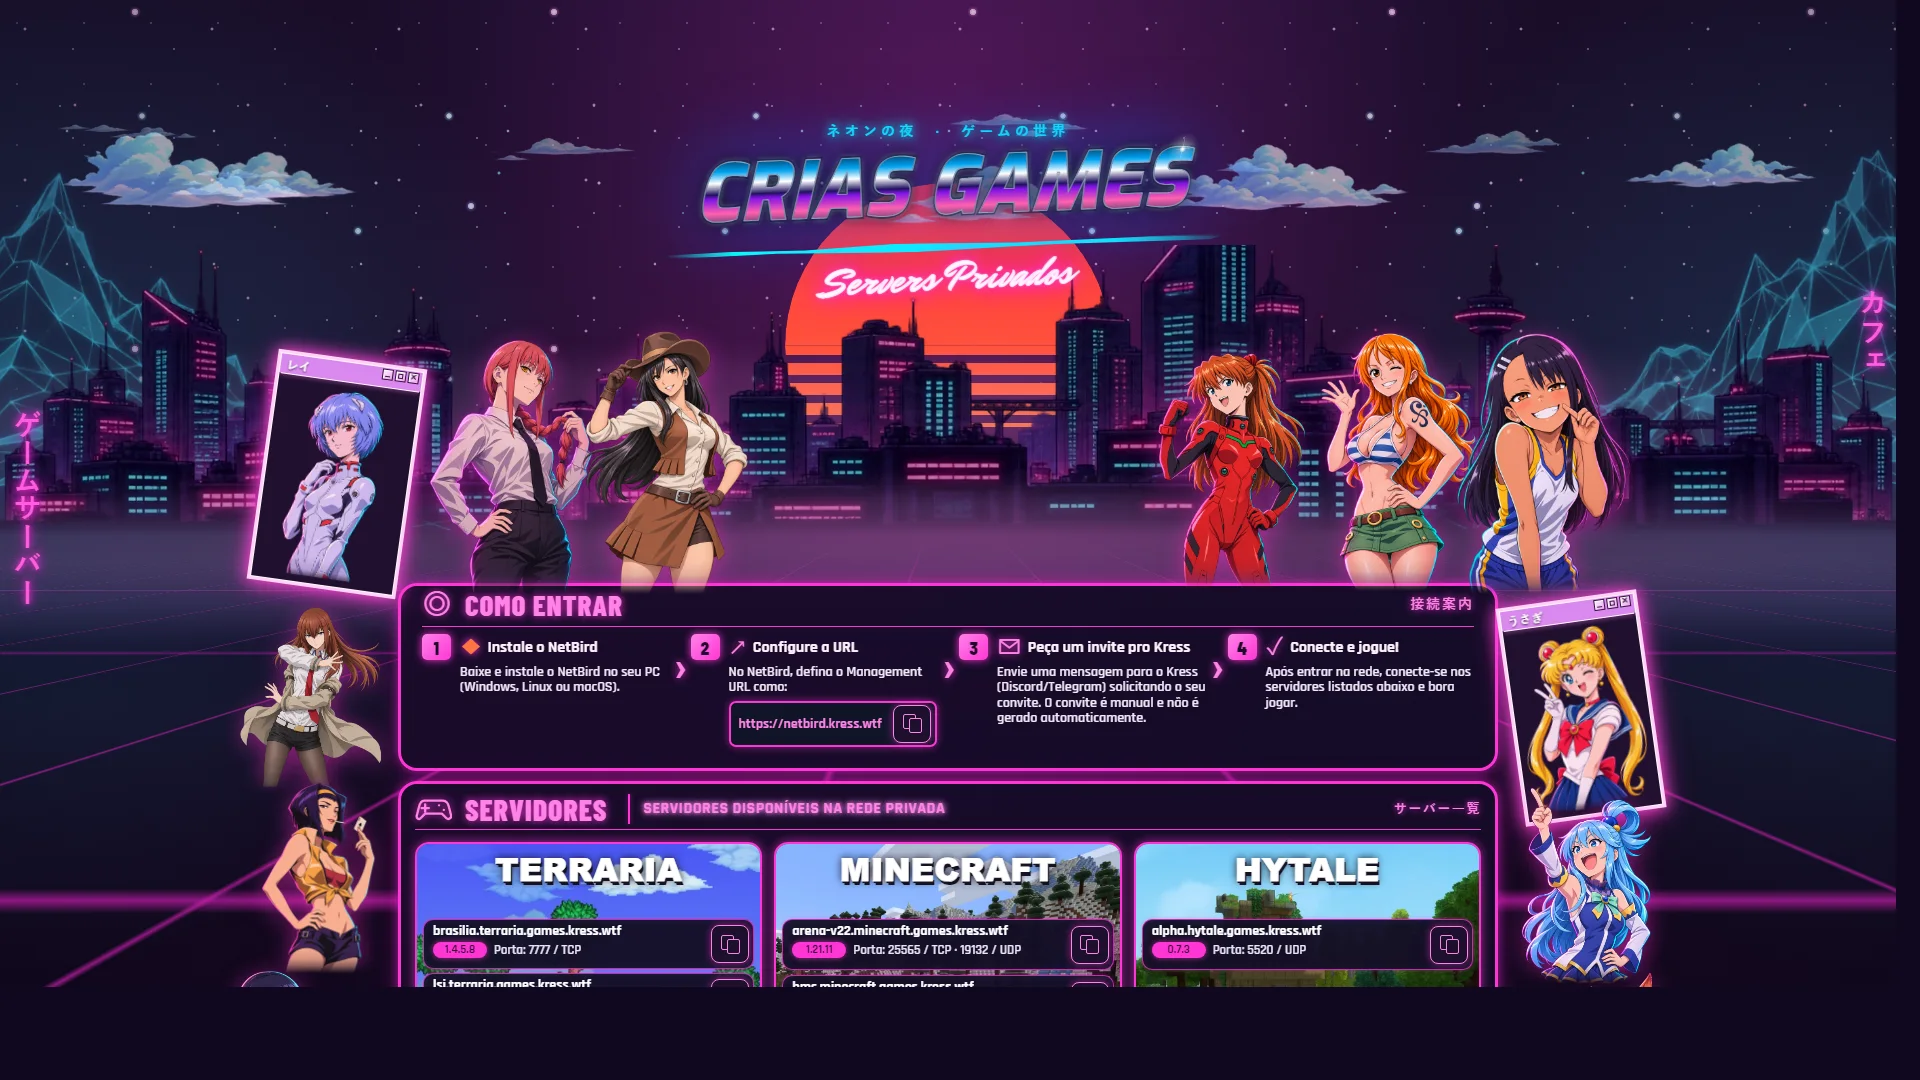
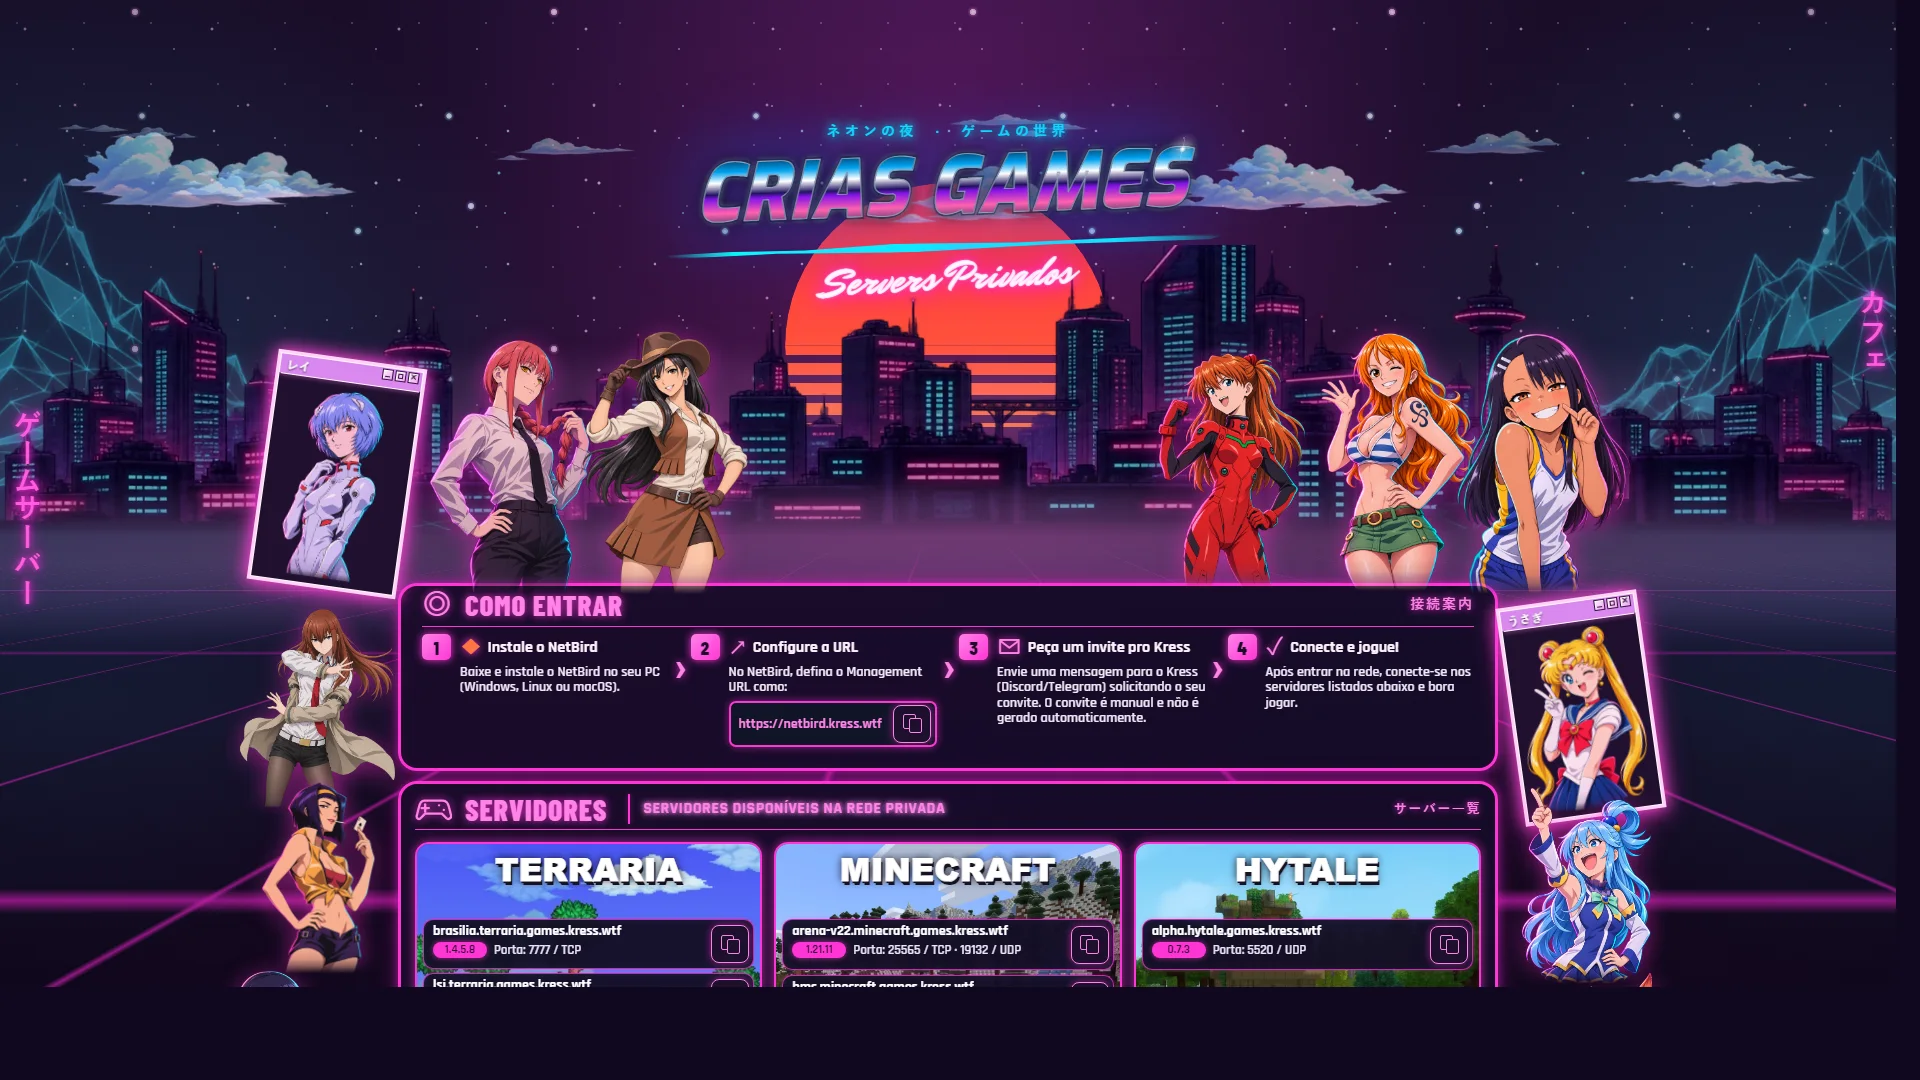
Slightly enlarge Kurisu portrait

Changed region(s): [[0.125, 0.55, 0.2188, 0.7639]]

diff --git a/src/assets/site.css b/src/assets/site.css
@@ -152,7 +152,7 @@ html.portrait-press-active,html.portrait-press-active * { user-select:none!impor
 .character--asuka { right:25%; top:133px; width:clamp(185px,13.75vw,199px); }
 .character--nami { right:13%; top:138px; width:clamp(200px,15vw,217px); }
 .character--nagatoro { right:2.8%; top:133px; width:clamp(205px,15vw,217px); }
-.character--kurisu { left:20px; top:406px; width:clamp(150px,11.625vw,168px); }
+.character--kurisu { left:20px; top:406px; width:clamp(168px,12.5vw,185px); }
 .character--faye { left:2.2%; top:586px; width:clamp(145px,11vw,159px); }
 .character--hinata { left:0; top:766px; width:clamp(150px,11.625vw,168px); }
 .character--rem { left:0; top:946px; width:clamp(145px,11vw,159px); }

diff --git a/docs/review/visual-review.md b/docs/review/visual-review.md
@@ -211,4 +211,4 @@ The [1448px upper-page capture](screenshots/tifa-clouds-1448-2026-11-10.webp) an
 
 ## Kurisu visual-novel portrait — 2026-11-11
 
-Replaced the previous heavily textured cutout with a cleaner transparent portrait that follows the user's new stance reference. It uses tidy linework, smooth matte shading and clear colors while retaining the novel's off-shoulder khaki coat, white shirt, red tie, dark shorts, white-and-gold belt and tights. The figure has natural proportions, an above-knee crop and generous transparent breathing room on the canvas; earlier numbered portraits remain archived. The second blurred fog layer now sits at the mountain base, above the mountain art and behind the skyline; it is positioned higher than the existing foreground fog. Desktop captures: [1448px](screenshots/kurisu-visual-novel-1448-2026-11-11.webp) and [1920px](screenshots/kurisu-visual-novel-1920-2026-11-11.webp).
+Replaced the previous heavily textured cutout with a cleaner transparent portrait that follows the user's new stance reference. It uses tidy linework, smooth matte shading and clear colors while retaining the novel's off-shoulder khaki coat, white shirt, red tie, dark shorts, white-and-gold belt and tights. The figure has natural proportions, an above-knee crop and generous transparent breathing room on the canvas; earlier numbered portraits remain archived. Raised Kurisu's standard desktop display width by about 8–10%, keeping her position and crop. The second blurred fog layer now sits at the mountain base, above the mountain art and behind the skyline; it is positioned higher than the existing foreground fog. Desktop captures: [1448px](screenshots/kurisu-visual-novel-1448-2026-11-11.webp) and [1920px](screenshots/kurisu-visual-novel-1920-2026-11-11.webp).
